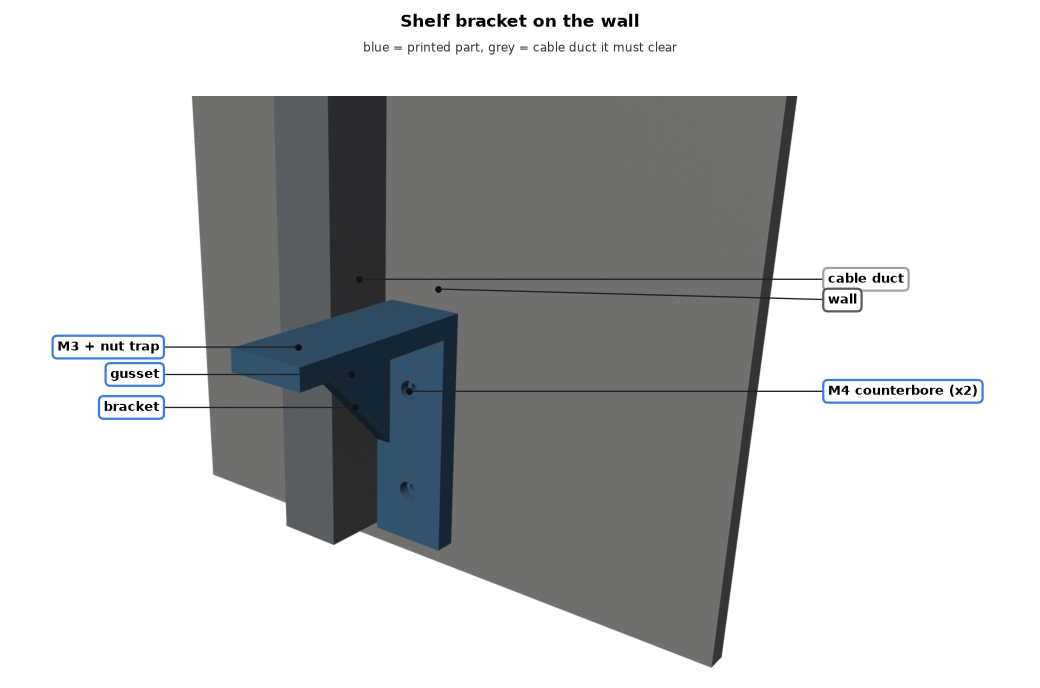
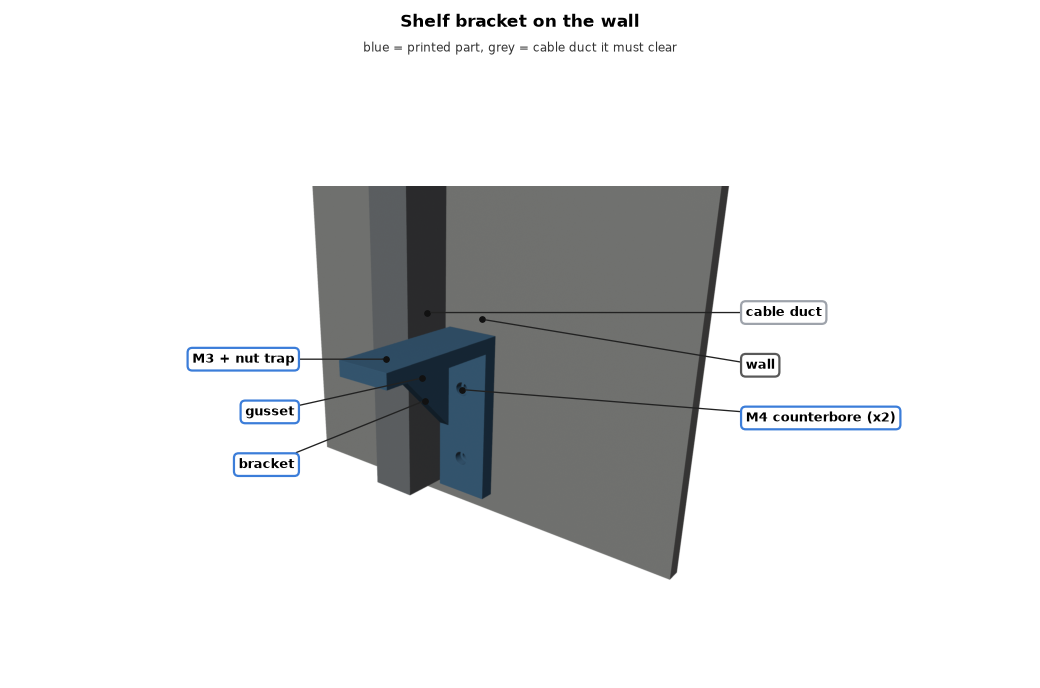
blender-render: label spacing in screen scale (labels overlapped when a big render was scaled into the axes)
Claude-Session: https://claude.ai/code/session_011ENM5ptTqPDScc48czJKK8

Changed region(s): [[0.0308, 0.1221, 0.9538, 0.9767]]

diff --git a/skills/blender-render/scripts/render.py b/skills/blender-render/scripts/render.py
@@ -89,9 +89,16 @@ def draw_labels(ax, im, labels, colors, offset, fontsize=12):
         split = float(np.median([p[0] for p in pts])) + 1e-6
     left = sorted([p for p in pts if p[0] < split], key=lambda p: p[1])
     right = sorted([p for p in pts if p[0] >= split], key=lambda p: p[1])
-    gap, pad = fontsize*3.2, w*0.04
+    # sizes in DATA units (image pixels): the image is scaled into the axes, so a 12 pt label is many image pixels
+    # tall when a 1600 px render sits in a 1000 px wide axes. Solve for the scale with the label margins included.
+    fig = ax.figure; pos = ax.get_position(); pt = fig.dpi/72.0
+    A_w, A_h = pos.width*fig.get_figwidth()*fig.dpi, pos.height*fig.get_figheight()*fig.dpi
     longest = max((len(L["text"]) for _, _, L in pts), default=0)
-    margin = pad + longest*fontsize*0.75
+    sides = (1 if left else 0) + (1 if right else 0)
+    pad, char = w*0.03, fontsize*pt*0.62                        # pad in data units, char width in screen px
+    s = max((w + sides*pad)/max(A_w - sides*longest*char, 1.0), h/A_h)   # data units per screen px (equal aspect)
+    gap = fontsize*pt*2.2*s                                     # one boxed line + air
+    margin = pad + longest*char*s
     for side, col in ((-1, left), (1, right)):
         ys = _spread([p[1] for p in col], gap/2, h - gap/2, gap)
         for (px, py, L), ty in zip(col, ys):
